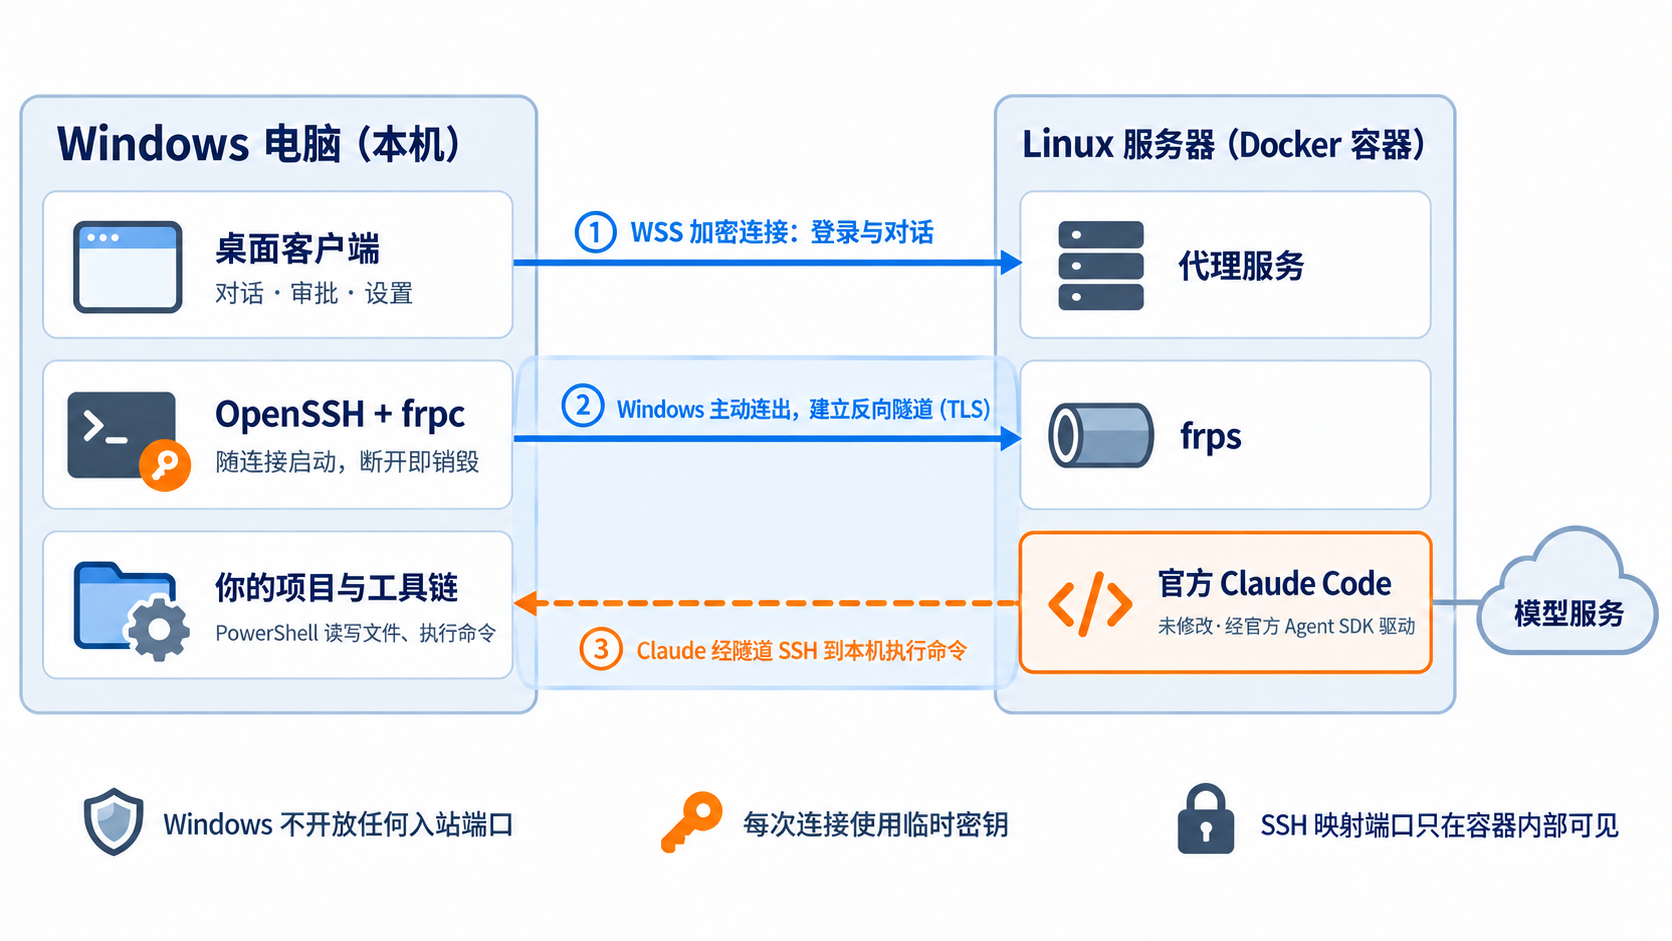
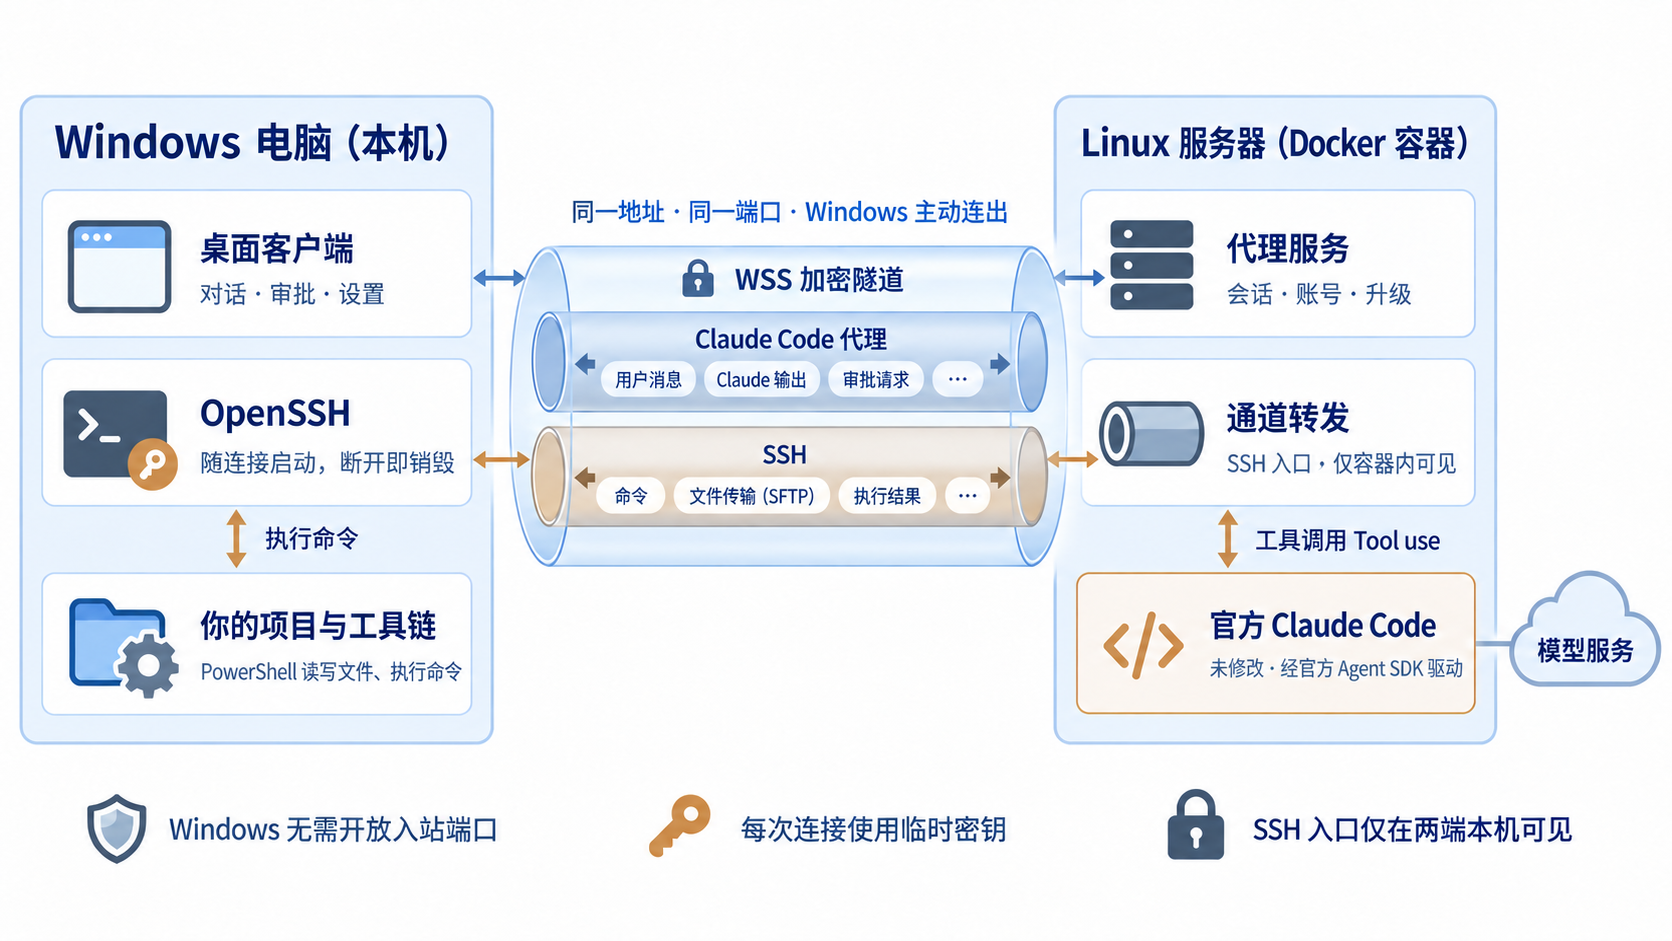
文档：工作方式示意图按 WSS 隧道重绘，同步图片说明
图上把两机之间画成一条 WSS 加密隧道，里面是对话与 SSH 两类连接；
README 的图片说明按新图重写，并补一句两类连接共用同一地址和端口。
服务端说明里的“反向隧道”改为“执行通道”，与其余部分用词一致。

diff --git a/apps/server/README.md b/apps/server/README.md
@@ -1,6 +1,6 @@
 # Linux 服务
 
-Linux 上的代理服务：认证客户端、管理会话、驱动官方 Claude Code、维护到 Windows 的反向隧道，并记录调用统计。`src/throttle.ts` 按来源地址限制凭据错误的重试和未认证连接的数量。
+Linux 上的代理服务：认证客户端、管理会话、驱动官方 Claude Code、维护到 Windows 的执行通道，并记录调用统计。`src/throttle.ts` 按来源地址限制凭据错误的重试和未认证连接的数量。
 
 ## 开发入口
 
